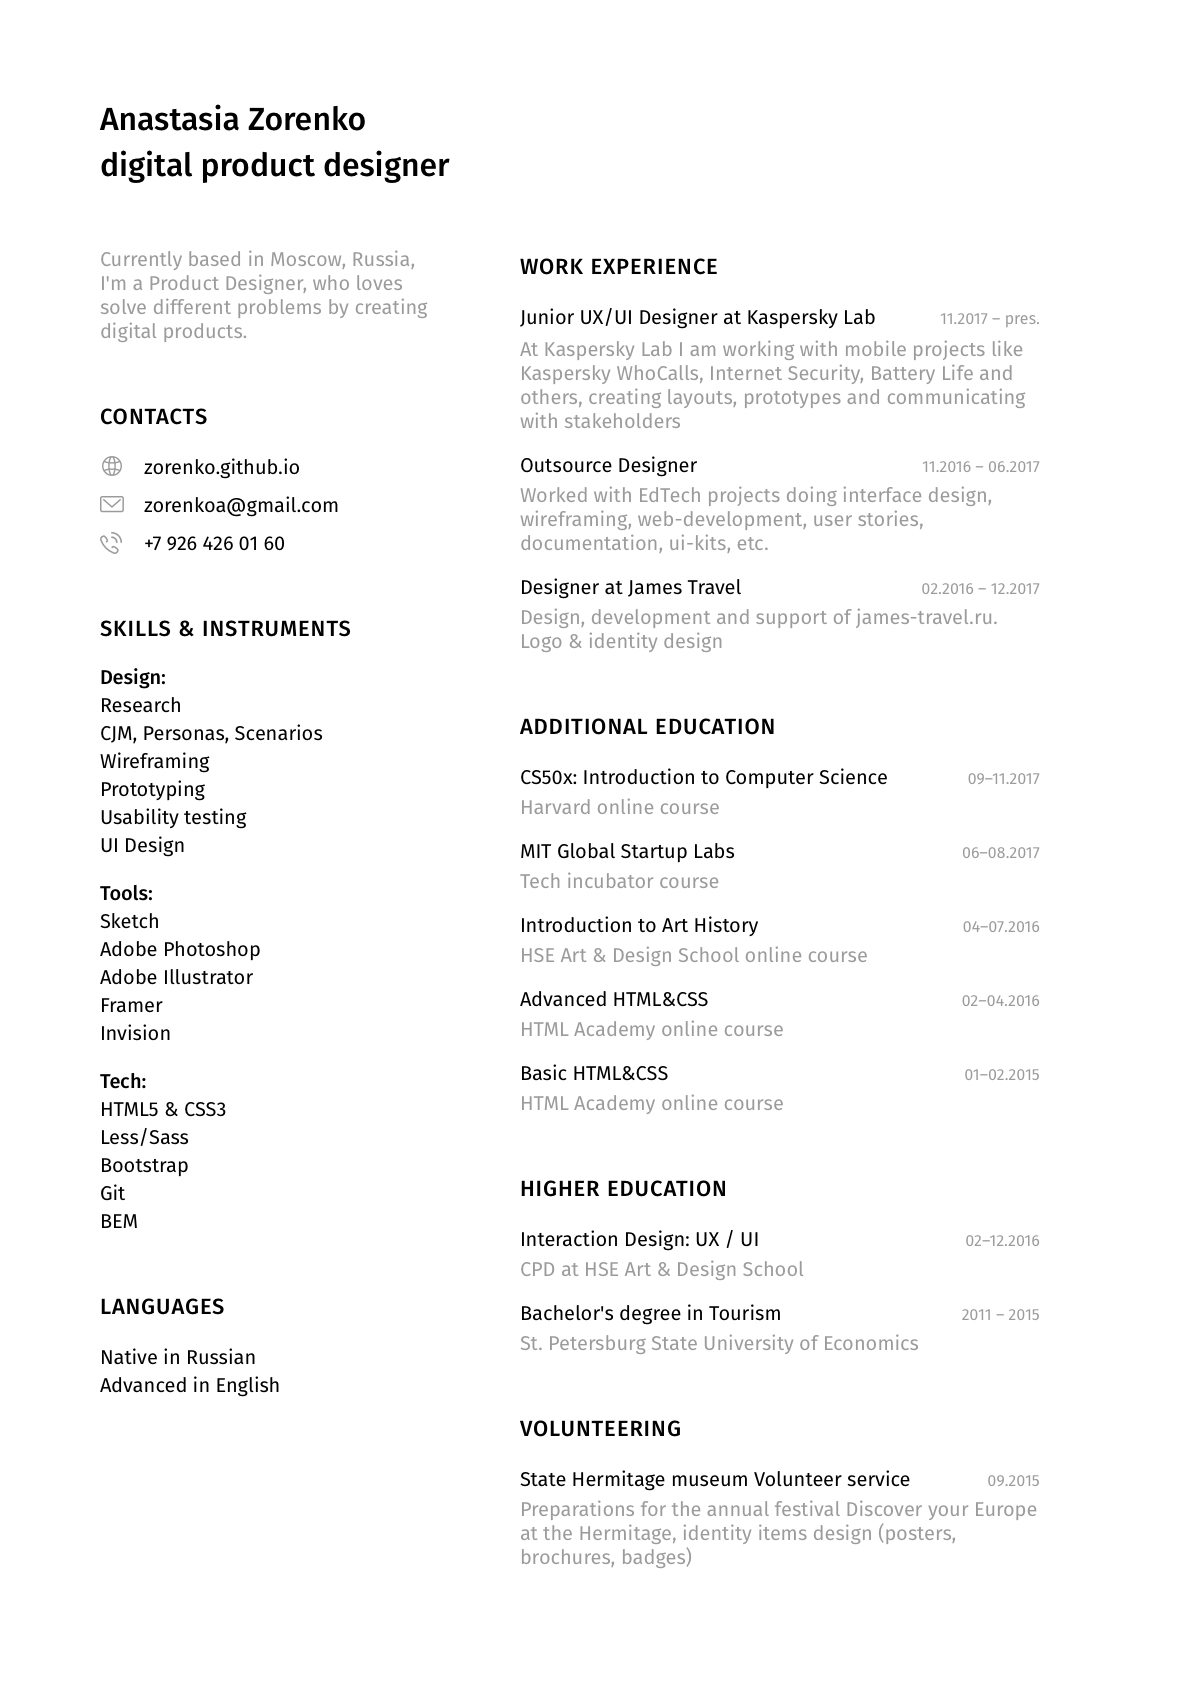
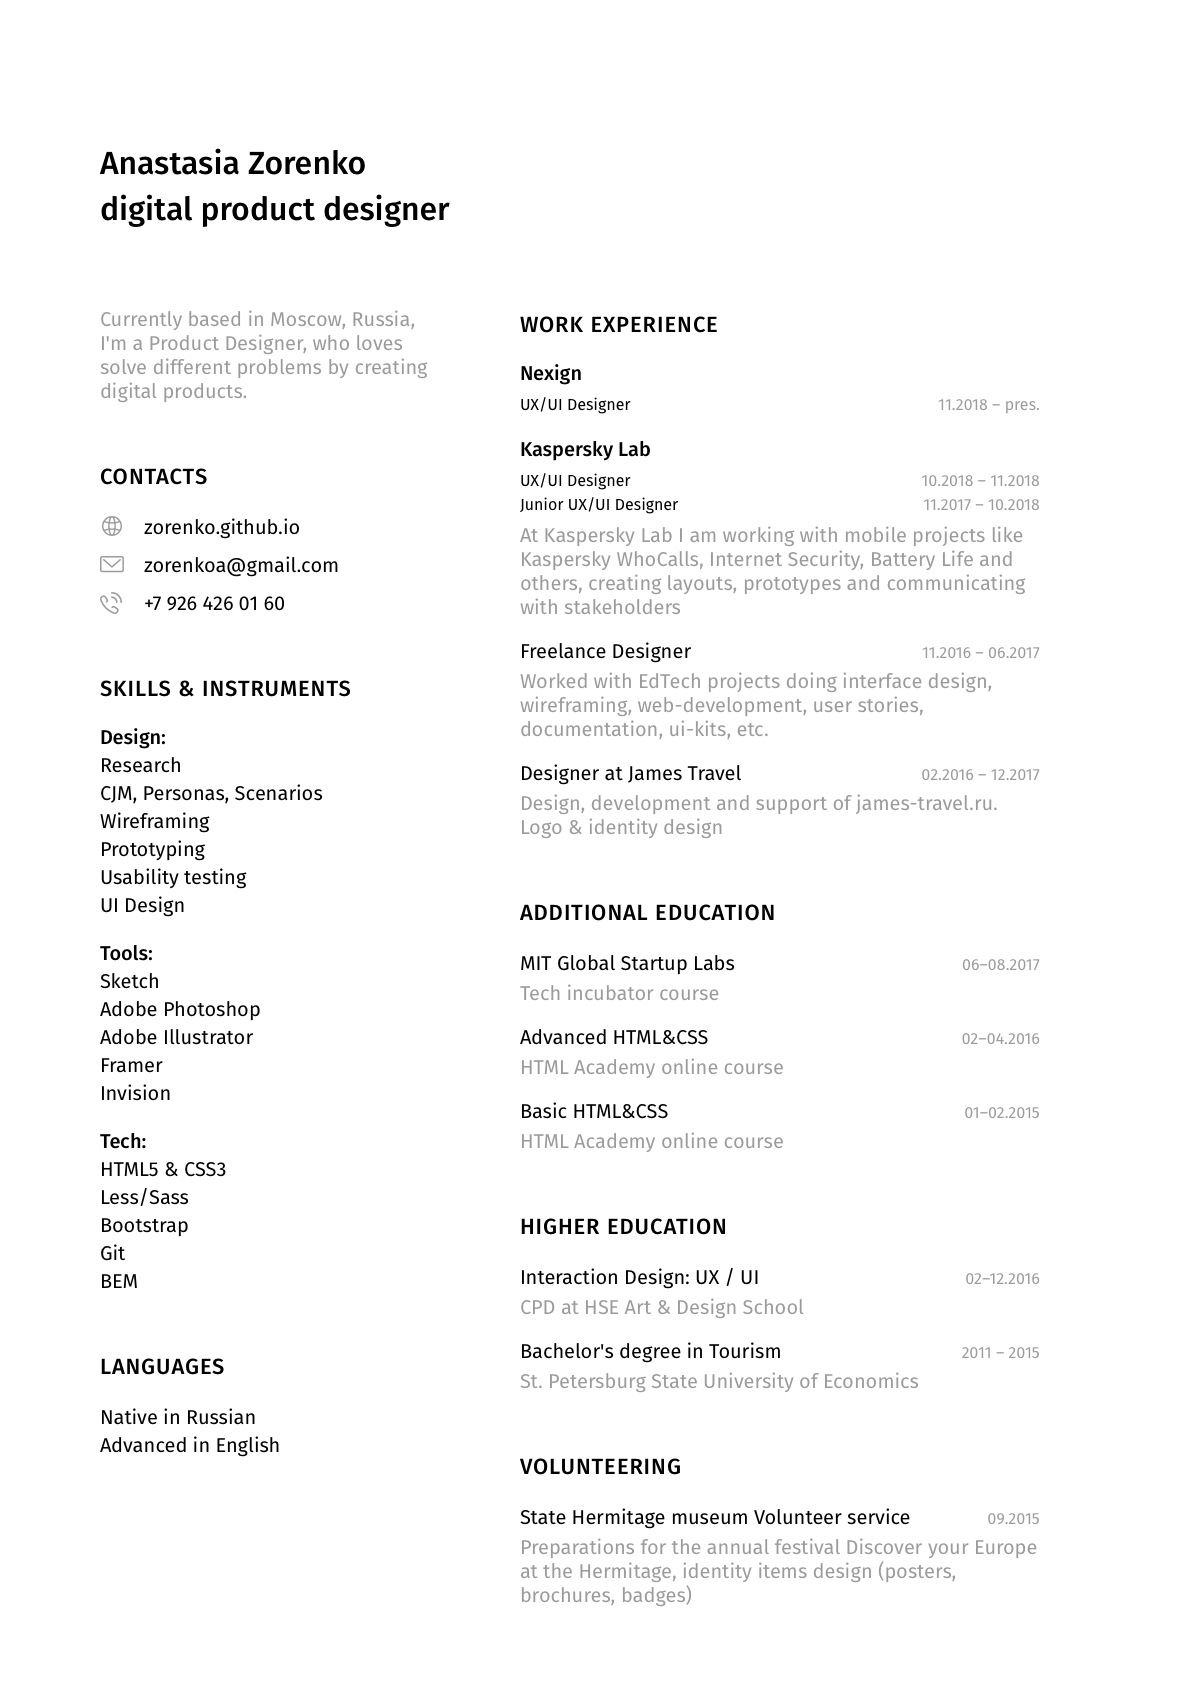
dec 18 upd

diff --git a/index.html b/index.html
@@ -17,6 +17,7 @@
         <ul>
           <li><a class="link" href="index.html#contacts">contacts</a></li>
           <li><a class="link" href="resume.html">resume</a></li>
+          <li><a class="link" target="_blank" href="https://www.linkedin.com/in/anastasiazorenko/">linkedin</a></li>
           <li><a class="link" target="_blank" href="https://www.behance.net/zorenko">behance</a></li>
           <li><a class="link" target="_blank" href="https://github.com/zorenko">github</a></li>
         </ul>
@@ -37,6 +38,21 @@
 
       <div class="project clearfix">
         <div class="project__pic">
+          <img alt="Nexign"
+            src="assets/img/pic/project-nexign.jpg"
+            srcset="assets/img/pic/project-nexign@2x.jpg 2x">
+        </div>
+        <div class="project__info">
+          <h3 class="project__title">Nexign</h3>
+          <h4 class="project__subtitle">UX/UI Designer</h4>
+          <p>
+            Since November 2018 I am working at Nexign creating a BSS platform for telecommunications companies.
+          </p>
+        </div>
+      </div>
+
+      <div class="project clearfix">
+        <div class="project__pic">
           <img alt="Kaspersky"
             src="assets/img/pic/project-kaspersky.jpg"
             srcset="assets/img/pic/project-kaspersky@2x.jpg 2x">
@@ -45,7 +61,7 @@
           <h3 class="project__title">Kaspersky Lab HQ</h3>
           <h4 class="project__subtitle">UX/UI Designer</h4>
           <p>
-            Since November, 2017 I am working at Kaspersky Lab with mobile projects like Kaspersky WhoCalls (iOS and Android), Internet Security (Android), Battery Life (Android) and others, creating layouts, prototypes and communicating with stakeholders.
+            Since November 2017 until Noveber 2018 I was working at Kaspersky Lab on mobile projects like Kaspersky WhoCalls (iOS and Android), Internet Security (Android), Battery Life (Android) and others, creating layouts, prototypes and communicating with stakeholders.
           </p>
         </div>
       </div>
@@ -84,6 +100,22 @@
 
       <div class="project clearfix">
         <div class="project__pic">
+          <img alt="Excursapp"
+            src="assets/img/pic/project-excursapp.jpg"
+            srcset="assets/img/pic/project-excursapp@2x.jpg 2x">
+        </div>
+        <div class="project__info">
+          <h3 class="project__title">Excursapp</h3>
+          <h4 class="project__subtitle"><a class="link link--color" target="_blank" href="https://excursapp.com/">excursapp.com</a></h4>
+          <p>
+            Excursapp is an app that helps people find perfect tour guides for them. I came up with that idea when I was studying at HSE Art & Design School and worked on this project for our final Demo Day. Right now that is my pet-project and I am working on it with a team of developers in free time.
+          </p>
+          <!-- <a class="btn" href="excursapp.html">Learn more</a> -->
+        </div>
+      </div>
+
+      <div class="project clearfix">
+        <div class="project__pic">
           <img alt="James Travel"
             src="assets/img/pic/project-jt.jpg"
             srcset="assets/img/pic/project-jt@2x.jpg 2x">
@@ -94,22 +126,6 @@
             James Travel is a travel agency located in St. Petersburg, Russia. For them, I've done design & web development of <a class="link link--color" target="_blank" href="https://james-travel.ru/">james-travel.ru</a> and logo & identity design. And currently working with them from time to time supporting the website and doing other small tasks.
           </p>
           <a class="btn" href="jt.html">Learn more</a>
-        </div>
-      </div>
-
-      <div class="project clearfix">
-        <div class="project__pic">
-          <img alt="Excursapp"
-            src="assets/img/pic/project-excursapp.jpg"
-            srcset="assets/img/pic/project-excursapp@2x.jpg 2x">
-        </div>
-        <div class="project__info">
-          <h3 class="project__title">Excursapp</h3>
-          <h4 class="project__subtitle"><a class="link link--color" target="_blank" href="https://excursapp.com/">excursapp.com</a></h4>
-          <p>
-            Excursapp is an app that helps people find perfect tour guides for them. I came up with that idea when I was studying at HSE Art & Design School and worked on this project for our final Demo Day. I would really love to make it live someday.
-          </p>
-          <a class="btn" href="excursapp.html">Learn more</a>
         </div>
       </div>
     </main>

diff --git a/excursapp.html b/excursapp.html
@@ -17,6 +17,7 @@
         <ul>
           <li><a class="link" href="index.html#contacts">contacts</a></li>
           <li><a class="link" href="resume.html">resume</a></li>
+          <li><a class="link" target="_blank" href="https://www.linkedin.com/in/anastasiazorenko/">linkedin</a></li>
           <li><a class="link" target="_blank" href="https://www.behance.net/zorenko">behance</a></li>
           <li><a class="link" target="_blank" href="https://github.com/zorenko">github</a></li>
         </ul>

diff --git a/jt.html b/jt.html
@@ -17,6 +17,7 @@
         <ul>
           <li><a class="link" href="index.html#contacts">contacts</a></li>
           <li><a class="link" href="resume.html">resume</a></li>
+          <li><a class="link" target="_blank" href="https://www.linkedin.com/in/anastasiazorenko/">linkedin</a></li>
           <li><a class="link" target="_blank" href="https://www.behance.net/zorenko">behance</a></li>
           <li><a class="link" target="_blank" href="https://github.com/zorenko">github</a></li>
         </ul>

diff --git a/outsource.html b/outsource.html
@@ -17,6 +17,7 @@
         <ul>
           <li><a class="link" href="index.html#contacts">contacts</a></li>
           <li><a class="link" href="resume.html">resume</a></li>
+          <li><a class="link" target="_blank" href="https://www.linkedin.com/in/anastasiazorenko/">linkedin</a></li>
           <li><a class="link" target="_blank" href="https://www.behance.net/zorenko">behance</a></li>
           <li><a class="link" target="_blank" href="https://github.com/zorenko">github</a></li>
         </ul>

diff --git a/resume.html b/resume.html
@@ -18,6 +18,7 @@
         <ul>
           <li><a class="link" href="index.html#contacts">contacts</a></li>
           <li><a class="link" href="resume.html">resume</a></li>
+          <li><a class="link" target="_blank" href="https://www.linkedin.com/in/anastasiazorenko/">linkedin</a></li>
           <li><a class="link" target="_blank" href="https://www.behance.net/zorenko">behance</a></li>
           <li><a class="link" target="_blank" href="https://github.com/zorenko">github</a></li>
         </ul>

diff --git a/speakability.html b/speakability.html
@@ -17,6 +17,7 @@
         <ul>
           <li><a class="link" href="index.html#contacts">contacts</a></li>
           <li><a class="link" href="resume.html">resume</a></li>
+          <li><a class="link" target="_blank" href="https://www.linkedin.com/in/anastasiazorenko/">linkedin</a></li>
           <li><a class="link" target="_blank" href="https://www.behance.net/zorenko">behance</a></li>
           <li><a class="link" target="_blank" href="https://github.com/zorenko">github</a></li>
         </ul>
